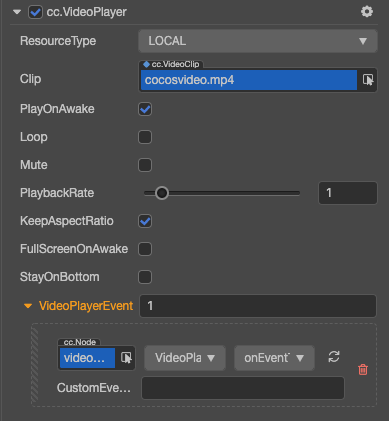
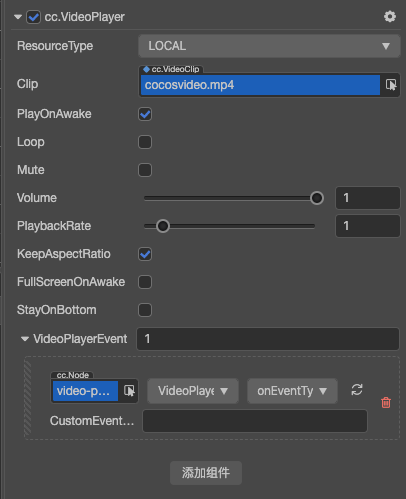
update video docs (#385)
* update video docs image

* refine docs

* refine docs

diff --git a/en/ui-system/components/editor/videoplayer.md b/en/ui-system/components/editor/videoplayer.md
@@ -135,7 +135,13 @@ Please refer to the [VideoPlayer API](../../../api/en/classes/VideoPlayer.html) 
 
 ## How to display a UI upon a video
 
-You can check the **stayOnBottom** property on the VideoPlayer in the **Properties** panel
+You can display a UI upon a video in two steps:
+
+1. Make sure the **ENABLE_TRANSPARENT_CANVAS** checkbox is checked. It can be found in the **Macro Config** page in **Project Settings**
+
+![](videoplayer/ENABLE_TRANSPARENT_CANVAS.png)
+
+2. Check the **stayOnBottom** property on the **VideoPlayer** in the **Properties** panel.
 
 **Note:**
 - This feature is only supported on Web.

diff --git a/zh/ui-system/components/editor/videoplayer.md b/zh/ui-system/components/editor/videoplayer.md
@@ -135,7 +135,13 @@ export class VideoPlayerCtrl extends Component {
 
 ## 如何实现 UI 在 VideoPlayer 上渲染
 
-可通过 **属性检查器** 中勾选 VideoPlayer 组件上的 **stayOnBottom** 属性。
+可通过以下三个步骤实现 UI 在 VideoPlayer 上显示：
+
+1. 确保 **项目设置** Macro Config 中的 **ENABLE_TRANSPARENT_CANVAS** 为勾选状态（设置 Canvas 背景支持 alpha 通道）
+
+![](videoplayer/ENABLE_TRANSPARENT_CANVAS.png)
+
+2. 可通过 **属性检查器** 中勾选 VideoPlayer 组件上的 **stayOnBottom** 属性。
 
 ![](videoplayer/stayonbuttom.png)
 
